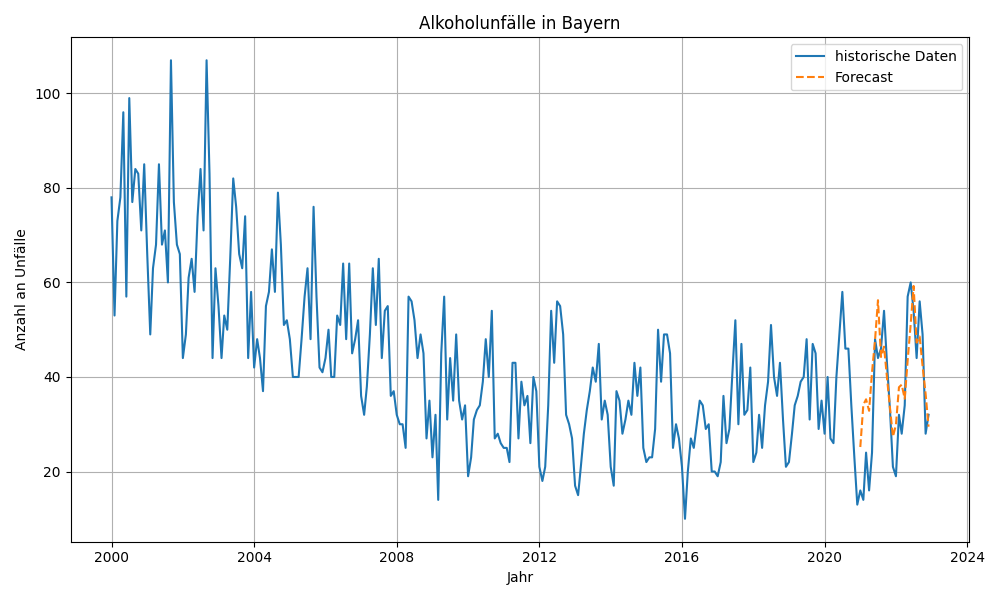
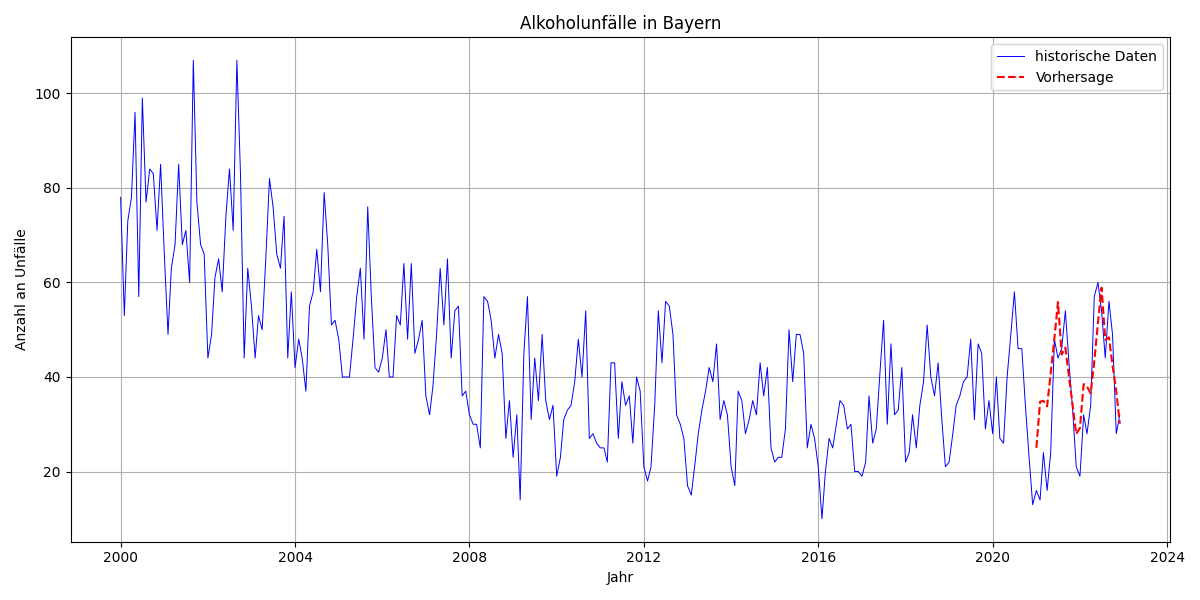
grid search result incorporated + final graph adjustments

diff --git a/src/model.py b/src/model.py
@@ -20,7 +20,7 @@ def preprocess_data(file_path):
         (data['KATEGORIE'] == 'Alkoholunfälle') &
         (data['GRUND'] == 'insgesamt') &
         # (data['JAHR'] <= 2021) &
-        # (data['JAHR'] >= 2018) &
+        # (data['JAHR'] >= 2015) &
         (data['MONAT'] != "Summe")
     ]
 
@@ -138,10 +138,10 @@ def train_sarimax(data_series):
     return results, predicted_mean
 
 def plot(data, forecast, modelname):
-    plt.figure(figsize=(10, 6))
-    plt.plot(data, label='historische Daten')
+    plt.figure(figsize=(12, 6))
+    plt.plot(data, label='historische Daten', linestyle='-', color='b', linewidth= 0.7)
     if not forecast.empty:
-        plt.plot(forecast, label='Forecast', linestyle='--')
+        plt.plot(forecast, label='Vorhersage', linestyle='--', color='r')
     plt.legend()
     plt.title('Alkoholunfälle in Bayern')
     plt.xlabel('Jahr')
@@ -166,9 +166,9 @@ if __name__ == '__main__':
     # plt.show()
 
     # train sarimax
-    sarimax_model, future_forecast = train_sarimax(data_series)
+    # sarimax_model, future_forecast = train_sarimax(data_series)
     
-    plot(data_series, future_forecast, "sarima")
     
     sarimax_model, future_forecast = fit_sarimax(data_series)
     # print(future_forecast.describe())
+    plot(data_series, future_forecast, "sarima")
